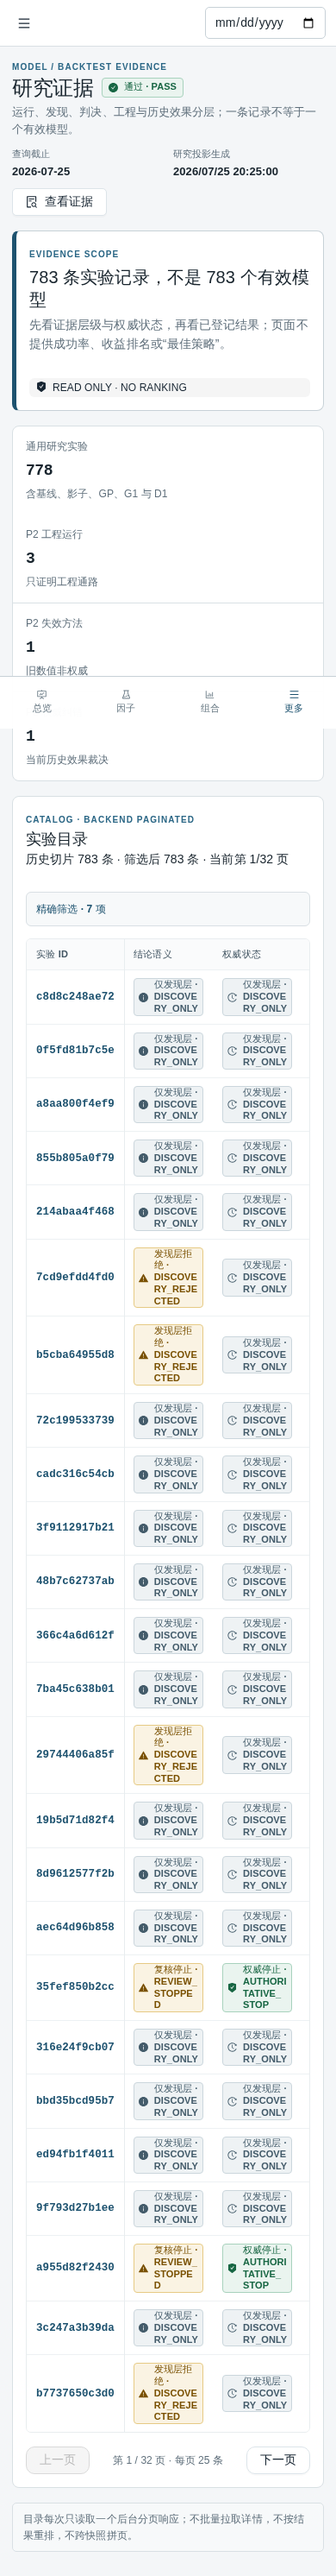
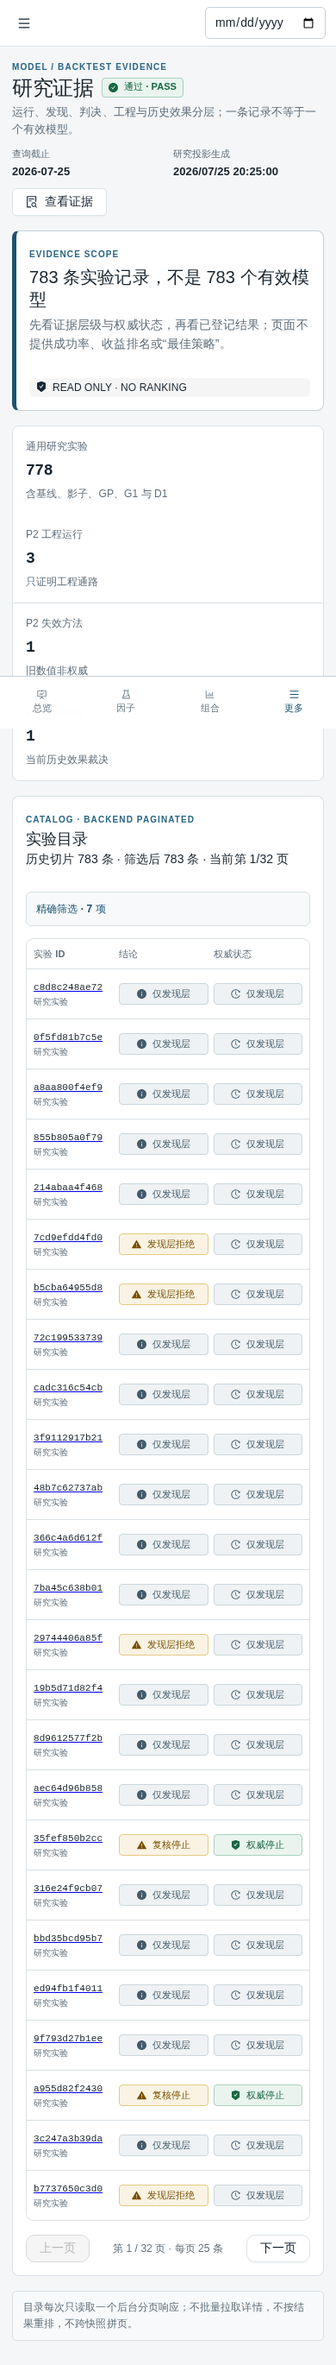
fix(web): make mobile experiment catalog readable

diff --git a/web-ui/src/pages/ExperimentsPage.tsx b/web-ui/src/pages/ExperimentsPage.tsx
@@ -191,23 +191,36 @@ function outcomeIcon(outcome: ExperimentOutcome) {
   return <InfoCircleFilled />;
 }
 
-function OutcomeBadge({ outcome }: { outcome: ExperimentOutcome }) {
+function OutcomeBadge({ outcome, showMachineCode = true }: { outcome: ExperimentOutcome; showMachineCode?: boolean }) {
   const copy = OUTCOME_COPY[outcome];
   return (
-    <Tag className={`experiment-outcome experiment-outcome-${copy.tone}`} icon={outcomeIcon(outcome)}>
-      {copy.label} · {outcome}
+    <Tag
+      className={`experiment-outcome experiment-outcome-${copy.tone}`}
+      icon={outcomeIcon(outcome)}
+      title={`${copy.label} · ${outcome}`}
+      aria-label={`${copy.label}，机器状态 ${outcome}`}
+    >
+      {copy.label}{showMachineCode ? ` · ${outcome}` : ""}
     </Tag>
   );
 }
 
-function AuthorityBadge({ authority }: { authority: ExperimentAuthorityStatus }) {
+function AuthorityBadge({
+  authority,
+  showMachineCode = true
+}: {
+  authority: ExperimentAuthorityStatus;
+  showMachineCode?: boolean;
+}) {
   const current = authority === "AUTHORITATIVE_CURRENT" || authority === "AUTHORITATIVE_STOP";
   return (
     <Tag
       className={`experiment-authority experiment-authority-${current ? "current" : "historical"}`}
       icon={current ? <SafetyCertificateFilled /> : <HistoryOutlined />}
+      title={`${AUTHORITY_LABELS[authority]} · ${authority}`}
+      aria-label={`${AUTHORITY_LABELS[authority]}，机器状态 ${authority}`}
     >
-      {AUTHORITY_LABELS[authority]} · {authority}
+      {AUTHORITY_LABELS[authority]}{showMachineCode ? ` · ${authority}` : ""}
     </Tag>
   );
 }
@@ -488,24 +501,33 @@ function CatalogPage() {
             emptyText="当前精确筛选没有实验记录"
           />
         </div>
-        <div className="experiment-mobile-cards" aria-label="移动端实验目录">
+        <div className="experiment-mobile-cards" role="table" aria-label="移动端实验目录">
+          <div className="experiment-mobile-header" role="row">
+            <span role="columnheader">实验 ID</span>
+            <span role="columnheader">结论</span>
+            <span role="columnheader">权威状态</span>
+          </div>
           {data.items.map((item) => (
-            <article key={`${item.experiment_kind}|${item.experiment_id}`} className="experiment-catalog-card">
-              <div className="experiment-card-heading">
-                <RouterLink to={experimentPath(item.experiment_kind, item.experiment_id, search)}>
+            <article
+              key={`${item.experiment_kind}|${item.experiment_id}`}
+              className="experiment-catalog-card"
+              role="row"
+            >
+              <div className="experiment-mobile-id" role="cell">
+                <RouterLink
+                  to={experimentPath(item.experiment_kind, item.experiment_id, search)}
+                  aria-label={`查看实验 ${item.experiment_id} 的类型化证据`}
+                >
                   <code title={item.experiment_id}>{shortIdentity(item.experiment_id)}</code>
                 </RouterLink>
-                <OutcomeBadge outcome={item.outcome_status} />
+                <small>{KIND_LABELS[item.experiment_kind]}</small>
               </div>
-              <p>{item.research_family}</p>
-              <AuthorityBadge authority={item.authority_status} />
-              <dl>
-                <div><dt>证据层级</dt><dd>{TIER_LABELS[item.evidence_tier]}</dd></div>
-                <div><dt>生命周期</dt><dd>{LIFECYCLE_LABELS[item.lifecycle_status]}</dd></div>
-                <div><dt>记录时间</dt><dd>{formatDateTime(item.recorded_at)}</dd></div>
-                <div><dt>失败项</dt><dd>{item.failed_reason_count}</dd></div>
-              </dl>
-              <RouterLink to={experimentPath(item.experiment_kind, item.experiment_id, search)}>查看类型化证据</RouterLink>
+              <div className="experiment-mobile-status" role="cell">
+                <OutcomeBadge outcome={item.outcome_status} showMachineCode={false} />
+              </div>
+              <div className="experiment-mobile-status" role="cell">
+                <AuthorityBadge authority={item.authority_status} showMachineCode={false} />
+              </div>
             </article>
           ))}
           {!data.items.length ? <Empty image={Empty.PRESENTED_IMAGE_SIMPLE} description="当前精确筛选没有实验记录" /> : null}

diff --git a/web-ui/src/styles.css b/web-ui/src/styles.css
@@ -3579,14 +3579,93 @@ body {
     border-left: 1px solid var(--line);
   }
 
-  .factor-desktop-catalog,
-  .experiment-desktop-catalog {
+  .factor-desktop-catalog {
     display: block;
   }
 
-  .factor-mobile-cards,
-  .experiment-mobile-cards {
+  .factor-mobile-cards {
     display: none;
+  }
+
+  .experiment-desktop-catalog {
+    display: none;
+  }
+
+  .experiment-mobile-cards {
+    display: grid;
+    gap: 0;
+    border: 1px solid var(--line);
+    border-radius: 9px;
+    overflow: hidden;
+  }
+
+  .experiment-mobile-header,
+  .experiment-catalog-card {
+    display: grid;
+    grid-template-columns: minmax(72px, 0.9fr) minmax(80px, 1fr) minmax(80px, 1fr);
+    align-items: center;
+    gap: 6px;
+  }
+
+  .experiment-mobile-header {
+    min-height: 34px;
+    padding: 6px 8px;
+    background: var(--surface-muted);
+    color: var(--muted);
+    font-size: 11px;
+    font-weight: 700;
+  }
+
+  .experiment-catalog-card {
+    min-height: 58px;
+    padding: 7px 8px;
+    border: 0;
+    border-top: 1px solid var(--line);
+    border-radius: 0;
+  }
+
+  .experiment-mobile-id,
+  .experiment-mobile-status {
+    min-width: 0;
+  }
+
+  .experiment-mobile-id a,
+  .experiment-mobile-id code {
+    display: block;
+    min-width: 0;
+  }
+
+  .experiment-mobile-id code {
+    overflow: hidden;
+    color: var(--ink);
+    font-size: 11px;
+    line-height: 1.35;
+    text-overflow: ellipsis;
+    white-space: nowrap;
+  }
+
+  .experiment-mobile-id small {
+    display: block;
+    margin-top: 3px;
+    overflow: hidden;
+    color: var(--muted);
+    font-size: 10px;
+    line-height: 1.25;
+    text-overflow: ellipsis;
+    white-space: nowrap;
+  }
+
+  .experiment-mobile-status .ant-tag {
+    width: 100%;
+    min-height: 25px;
+    justify-content: center;
+    padding-inline: 4px;
+    font-size: 11px;
+    line-height: 1.25;
+    overflow-wrap: normal;
+    text-align: center;
+    white-space: normal;
+    word-break: keep-all;
   }
 
   .experiment-filters,

diff --git a/web-ui/real-e2e/real.spec.ts b/web-ui/real-e2e/real.spec.ts
@@ -38,6 +38,7 @@ interface RealExperimentCatalog {
       experiment_kind: string;
       experiment_id: string;
       outcome_status: string;
+      authority_status: string;
     }>;
     sorted_by_performance: false;
   };
@@ -93,8 +94,21 @@ test("deployed read-only UI serves real evidence under strict CSP", async ({ pag
     expect(blocking, JSON.stringify(blocking, null, 2)).toEqual([]);
     expect(pageWidth.scrollWidth).toBeLessThanOrEqual(pageWidth.clientWidth + 1);
     expect(cspViolations).toEqual([]);
+    if (item.route === "/experiments" && testInfo.project.name === "real-mobile") {
+      const mobileCatalog = page.getByRole("table", { name: "移动端实验目录" });
+      await expect(mobileCatalog).toBeVisible();
+      await expect(page.locator(".experiment-desktop-catalog")).toBeHidden();
+      const visibleStatuses = await mobileCatalog.locator(".experiment-mobile-status").allInnerTexts();
+      expect(visibleStatuses.length).toBeGreaterThan(0);
+      expect(visibleStatuses.every((status) => !/[A-Z]{3,}(?:_[A-Z]+)+/.test(status))).toBe(true);
+      const rowHeights = await mobileCatalog.locator(".experiment-catalog-card").evaluateAll(
+        (rows) => rows.map((row) => row.getBoundingClientRect().height)
+      );
+      expect(Math.max(...rowHeights)).toBeLessThanOrEqual(72);
+    }
     const captureDir = process.env.P3_CAPTURE_REAL_DIR;
-    if (captureDir) {
+    const captureRoute = process.env.P3_CAPTURE_REAL_ROUTE;
+    if (captureDir && (!captureRoute || captureRoute === item.route)) {
       const name = item.route.slice(1).replaceAll("/", "-") || "root";
       await page.screenshot({
         path: `${captureDir}/${name}-${testInfo.project.name}.png`,

diff --git a/web-ui/e2e/ui.spec.ts b/web-ui/e2e/ui.spec.ts
@@ -346,6 +346,29 @@ test("experiment catalog separates records from valid models and preserves exact
   await expect(page.getByText("READ ONLY · NO RANKING")).toBeVisible();
   expect(requests).toEqual(["/api/v1/experiments"]);
 
+  if (testInfo.project.name === "mobile-390" || testInfo.project.name === "zoom-400-reflow") {
+    const mobileCatalog = page.getByRole("table", { name: "移动端实验目录" });
+    await expect(mobileCatalog).toBeVisible();
+    await expect(page.locator(".experiment-desktop-catalog")).toBeHidden();
+    await expect(mobileCatalog.getByRole("row")).toHaveCount(5);
+    await expect(mobileCatalog).toContainText("历史效果拒绝");
+    await expect(mobileCatalog).toContainText("方法已失效");
+    await expect(mobileCatalog).toContainText("当前权威");
+    await expect(mobileCatalog).toContainText("被替代工程代");
+    for (const machineStatus of [
+      "HISTORICAL_EFFECT_REJECTED",
+      "INVALIDATED_METHOD",
+      "AUTHORITATIVE_CURRENT",
+      "SUPERSEDED_ENGINEERING_GENERATION"
+    ]) {
+      await expect(mobileCatalog.getByText(machineStatus, { exact: true })).toHaveCount(0);
+    }
+    const rowHeights = await mobileCatalog.locator(".experiment-catalog-card").evaluateAll(
+      (rows) => rows.map((row) => row.getBoundingClientRect().height)
+    );
+    expect(Math.max(...rowHeights)).toBeLessThanOrEqual(72);
+  }
+
   await page.getByText("精确筛选 · 7 项").click();
   await page.getByLabel("结论语义筛选").click();
   await page

diff --git a/STATE.md b/STATE.md
@@ -2,6 +2,18 @@
 
 > 每会话开工先读本文件；收工必更新「当前进度」与「待答点」。改判旧口径须显式作废并注明日期。
 
+## 2026-07-26 · Web 1.1 移动实验目录可读性补正 GO_LOCAL_READ_ONLY_REVIEW
+
+- 390/320px 实验目录已从桌面宽表改为紧凑三列目录，首要信息固定为实验 ID、中文结论和中文权威状态；
+  原始英文机器枚举仅保留在 `title`/`aria-label` 与详情页，不再在窄列逐字折行。
+- `DISCOVERY_REJECTED`、`INVALIDATED_METHOD`、`AUTHORITATIVE_STOP`、`DISCOVERY_ONLY` 等坏消息仍以
+  “发现层拒绝”“方法已失效”“权威停止”“仅发现层”明确展示，没有弱化或改判。
+- 真实 390px 实验页由 3,617px 进一步降至 2,740px，单条目录行不超过 72px；320px 与 390px 均无
+  页面级横向溢出。前端单元 22 PASS、五视口 fixture 64 PASS/11 intentional skip、真实部署 10 PASS；
+  全仓 339 PASS、Ruff 和 `git diff --check` 通过。
+- 仅重建隔离的本机 `web-query`/`web-ui`；scheduler 仍为原容器 `fd8e96152b53`、原镜像与原创建时间，
+  healthy 且未重启。验收见 `docs/WEB_1_1_MOBILE_EXPERIMENT_CATALOG_FIX_20260726.md`。
+
 ## 2026-07-26 · Web 1.1 全面重设计 GO_LOCAL_READ_ONLY_REVIEW
 
 - 现状审计与重设计协议已先以本机提交 `f1b1dbb` 冻结；七类只读页随后完成信息架构、视觉层级、
@@ -9,7 +21,7 @@
   四轴分列，当前 2 日 FORWARD 继续 `OBSERVING`，不画趋势、不展示年化、Sharpe 或信息比率。
 - `planned_trade_leg_count` 前端统一为“目标变更证券数”，真实执行事实为“已执行订单腿”；因子正式库 0、
   783 条实验记录非 783 个有效模型、WARN/NOT_EVALUATED/失效方法均未被包装弱化。
-- 真实 390px 页面高度中，因子目录由 4,110px 降至 1,839px，实验目录由 10,503px 降至 3,617px；
+- 真实 390px 页面高度中，因子目录由 4,110px 降至 1,839px，实验目录由 10,503px 降至 2,740px；
   七页均无页面级横向溢出，320px 等效 400% 总览同样回流通过。
 - 前端单元 22 PASS；五视口 fixture 64 PASS/11 intentional skip；真实桌面/移动部署 10 PASS；截图专项
   2 PASS。严格 CSP、同源零外联、axe serious/critical=0、键盘焦点恢复和 FCP 预算均通过。

diff --git a/docs/WEB_1_1_MOBILE_EXPERIMENT_CATALOG_FIX_20260726.md b/docs/WEB_1_1_MOBILE_EXPERIMENT_CATALOG_FIX_20260726.md
@@ -1,0 +1,37 @@
+# Web 1.1 移动实验目录可读性补正验收（2026-07-26）
+
+## 1. 结论与边界
+
+390px 实页中实验目录的机器枚举碎片化折行已消除，结论为 `GO_LOCAL_READ_ONLY_REVIEW`。本补正只修改
+Web 前端、前端测试和验收截图；未修改后台 API、`src/`、config、模型、门禁、账本、生产数据、compose
+边界或 scheduler。
+
+## 2. 设计裁决
+
+1. 699px 以下不再渲染桌面宽表，改为高度受控的三列目录：实验 ID、结论、权威状态。
+2. 结论和权威状态只显示中文业务语义；原始英文机器枚举保留在 `title`、`aria-label` 和详情页用于审计。
+3. “发现层拒绝”“方法已失效”“权威停止”“仅发现层”等负面或受限结论保留原语义和警示色，不降级为
+   中性状态。
+4. 每条目录行不超过 72px；不恢复移动长卡片墙，也不隐藏精确筛选、分页或证据下钻。
+
+## 3. 验收结果
+
+- 前端生产构建与 TypeScript：PASS。
+- 前端单元：22 PASS。
+- 390/320px 实验目录专项：2 PASS；断言移动目录可见、桌面目录隐藏、中文坏消息可见、机器枚举正文为 0、
+  单行高度不超过 72px。
+- 五视口 fixture Playwright：64 PASS / 11 条按项目条件跳过。
+- 真实部署桌面/移动 Playwright：10 PASS；覆盖 axe serious/critical=0、严格 CSP、同源零外联和页面回流。
+- 全仓：339 PASS；Ruff、`git diff --check` 通过。
+- 真实 390px 全页高度：3,617px → 2,740px，减少 877px（24.2%）；页面宽度保持 390px，无文档级横向
+  溢出。
+
+## 4. 证据与服务隔离
+
+- 更新截图：`artifacts/web-1.1/after/experiments-real-mobile.png`（390 × 2,740）。
+- 浏览器仍只通过 `127.0.0.1:8080` 访问；`web-query` 无宿主端口。
+- 仅显式重建隔离的 `web-query`/`web-ui`。scheduler 终验必须仍为施工前同一容器
+  `fd8e96152b53`、同一镜像和创建时间，状态 healthy。
+
+本结论不表示 783 条实验记录是 783 个有效模型，不改任何研究、准入、回测或生产裁决，也不授权远程、
+写入、重跑、调参或交易能力。

diff --git a/docs/WEB_1_1_REDESIGN_ACCEPTANCE_20260726.md b/docs/WEB_1_1_REDESIGN_ACCEPTANCE_20260726.md
@@ -49,7 +49,7 @@ Web 1.1 的主要裁决：
 | 模拟组合 | 5,539px | 3,899px | -29.6% |
 | 股票池/信号 | 3,739px | 3,204px | -14.3% |
 | 因子工厂 | 4,110px | 1,839px | -55.3% |
-| 模型/回测 | 10,503px | 3,617px | -65.6% |
+| 模型/回测 | 10,503px | 2,740px | -73.9% |
 | 数据质量 | 5,969px | 5,063px | -15.2% |
 | 系统运行 | 3,982px | 3,442px | -13.6% |
 
@@ -91,3 +91,5 @@ Web 1.1 的主要裁决：
 2. 数据质量页移动高度仍约 5,063px，主要来自必须保留的哨兵和证据表；后续只能在不隐藏坏消息的前提下做分节锚点或按需展开。
 3. 本轮没有新增后台字段，也没有发现阻断当前七页的最小查询契约缺口。
 4. 当前只允许本机只读复核；远程部署、正式导出和生产接入仍需独立目标与授权。
+
+移动实验目录的独立补正证据见 `docs/WEB_1_1_MOBILE_EXPERIMENT_CATALOG_FIX_20260726.md`。
